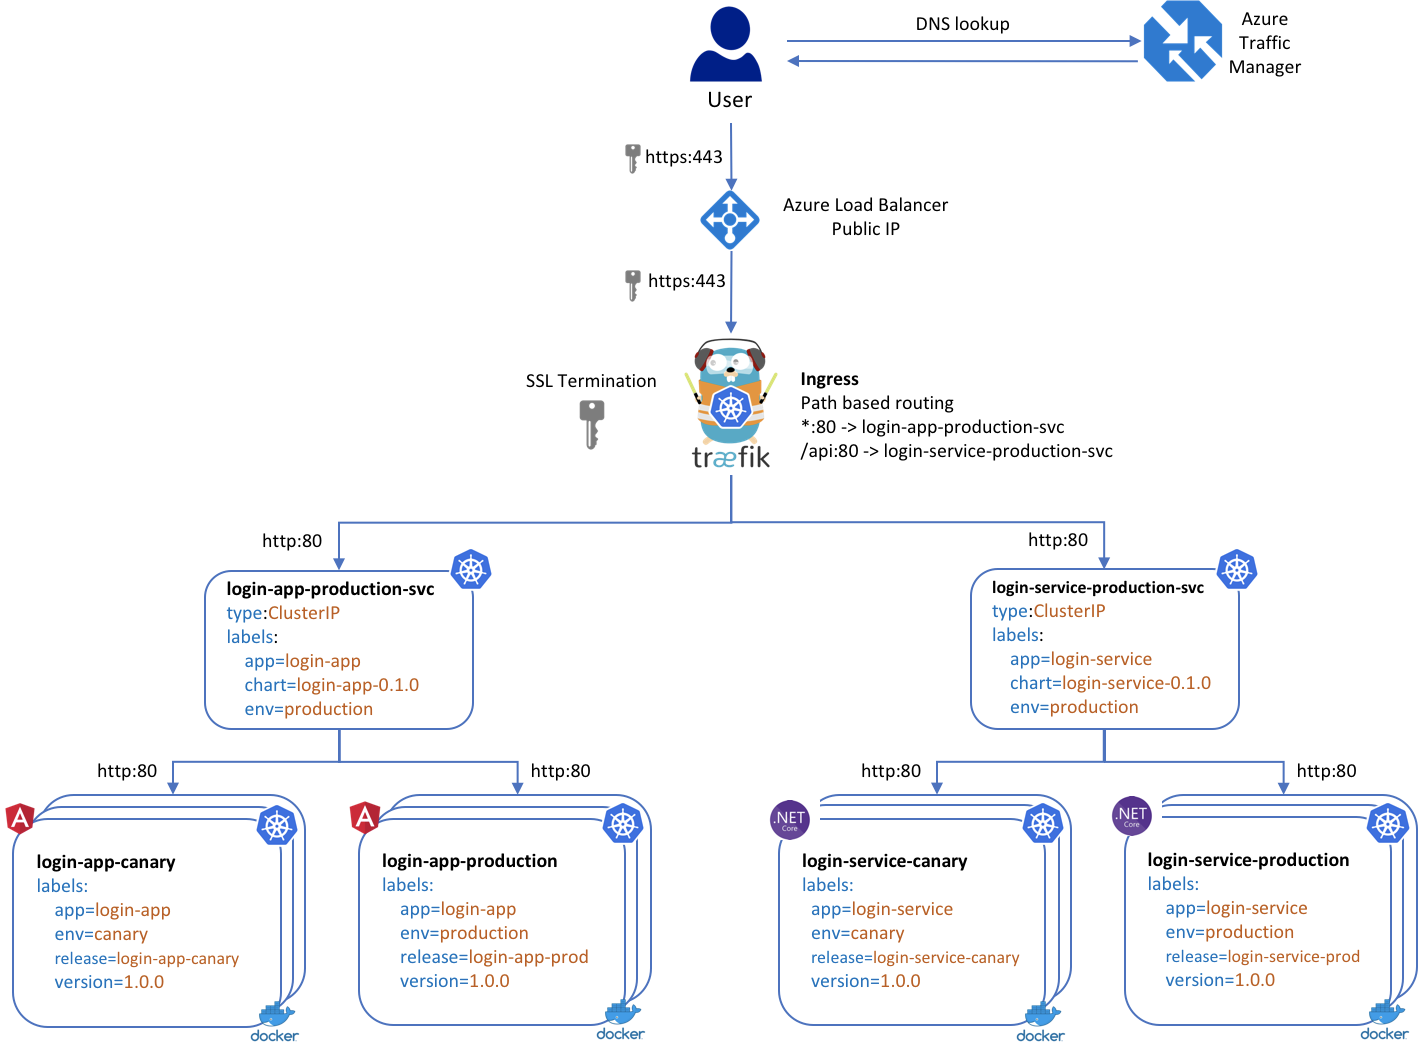
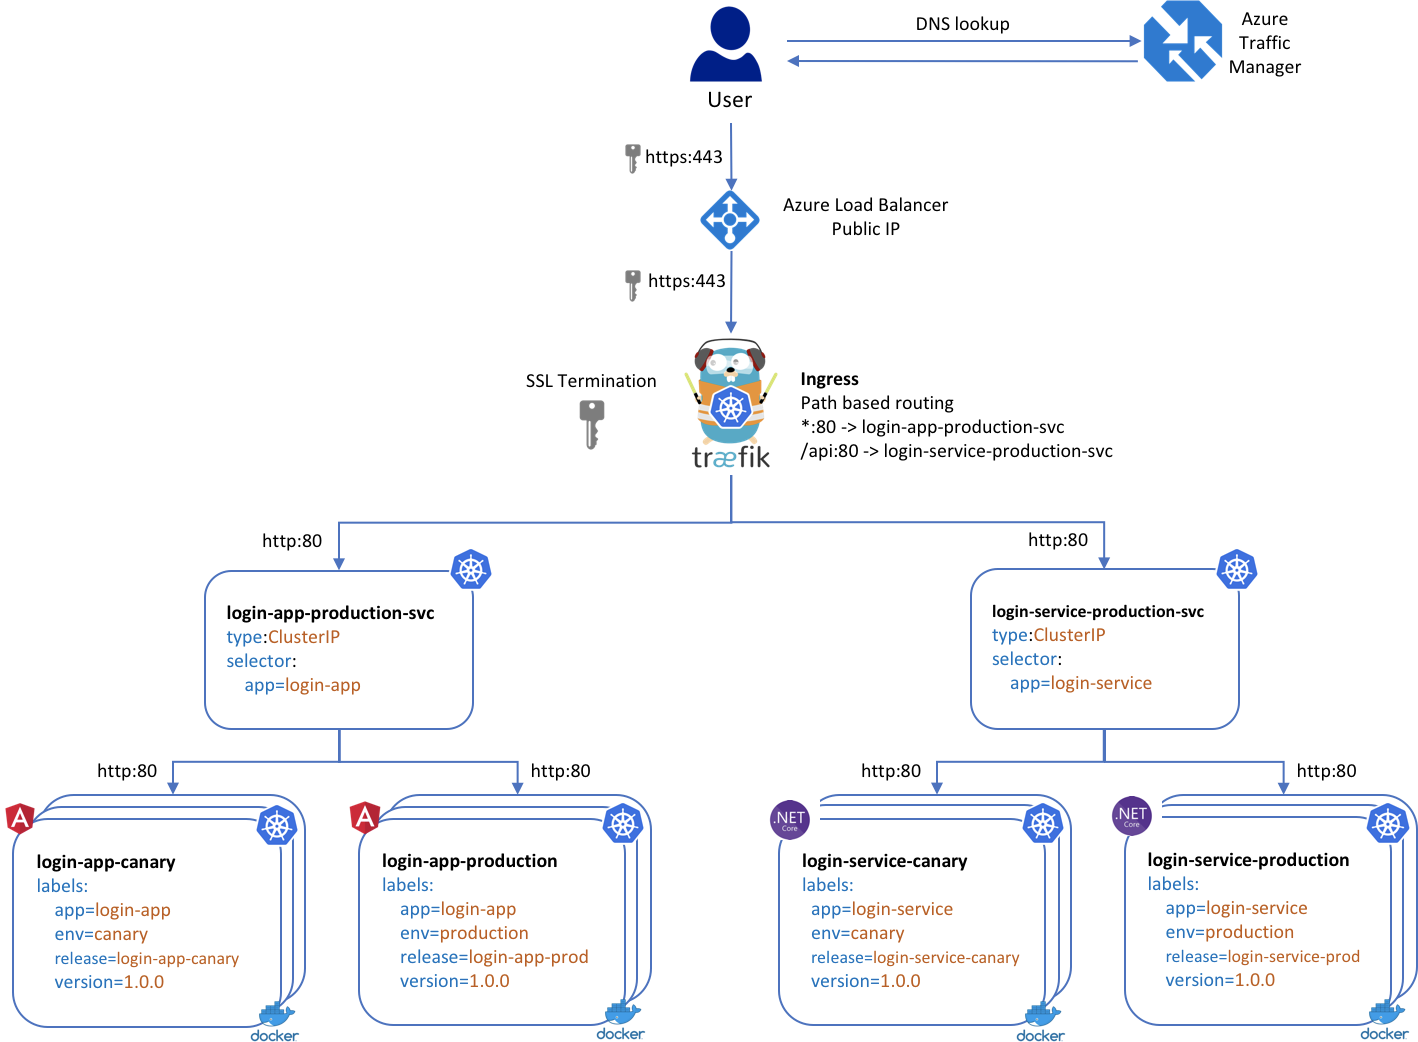
Added canary and prod routing description Updated traffic routing diagram to call out service selector

Changed region(s): [[0.6827, 0.5528, 0.8378, 0.7063], [0.1551, 0.5528, 0.3103, 0.7063]]

diff --git a/TrafficRouting.md b/TrafficRouting.md
@@ -16,10 +16,16 @@ An Azure load balancer provides a public IP and the entry point for all public r
 
 ## Traefik Ingress Controller
 
-A [Traefik ingress controller](https://github.com/kubernetes/charts/tree/master/stable/traefik) is used within the Kubernetes cluster for traffic routing. Traefik provides flexibility to desribe routes as code and review any routing changes before they are applied. Traefik requieres a single public IP on the Azure Load Balancer and can handle routing all requests for the pods in the Kubernetes cluster based on hostname, paths and/or ports.
+A [Traefik ingress controller](https://github.com/kubernetes/charts/tree/master/stable/traefik) is used within the Kubernetes cluster for traffic routing. Traefik provides flexibility to desribe routes as code and review any routing changes before they are applied. Traefik uses a single public IP on the Azure Load Balancer and handles routing all requests for the k8 services in the Kubernetes cluster based on hostname, paths and/or ports.
 
 **Traefik also handles ssl termination** for the Kubernetes cluster. This enables the SSL certificate to be deployed to a single location and ensures that all traffic will travel over HTTPS into the Kubernestes cluster.
 
 ## Kubernetes Services
 
 Traefik routes all requests to Kubernetes services, which act as internal load balancers in Kubernetes. **Since we are using Traefik, the Kubernetes services be of type ClusterIP**, which makes them accessible from within the cluster only and prevents exposing services directly to public requests.
+
+### Canary and production routing
+
+Kubernetes services are provided for canary and production environments. The Kubernetes services selector only filters on the app label, which allows requests to round robin between both canary and production replicas. Because requests are round robined across all pods connected to the service, the amount of traffic going to canary vs production pods is determined by the replica count for each deployment.
+
+For example, with 9 production replicas and 1 canary replica, 90% of requests would be served by the last stable release and 10% of requests would be served by the latest changed merged to master.
